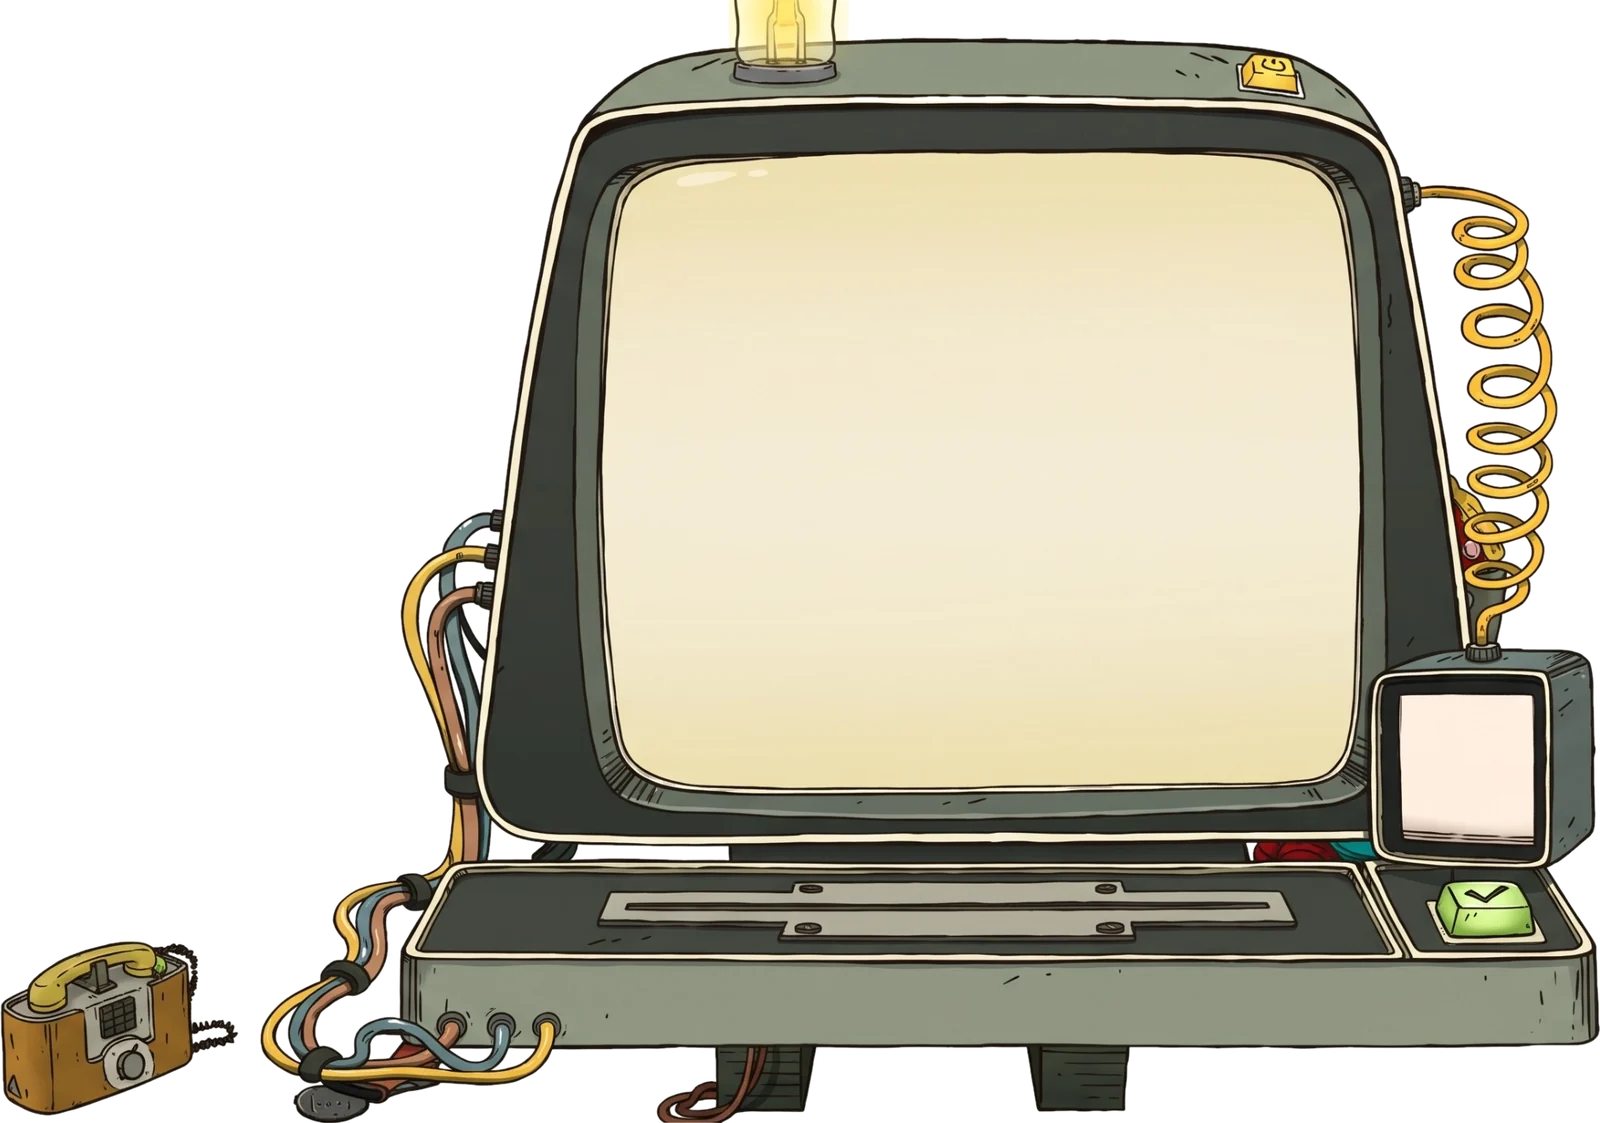
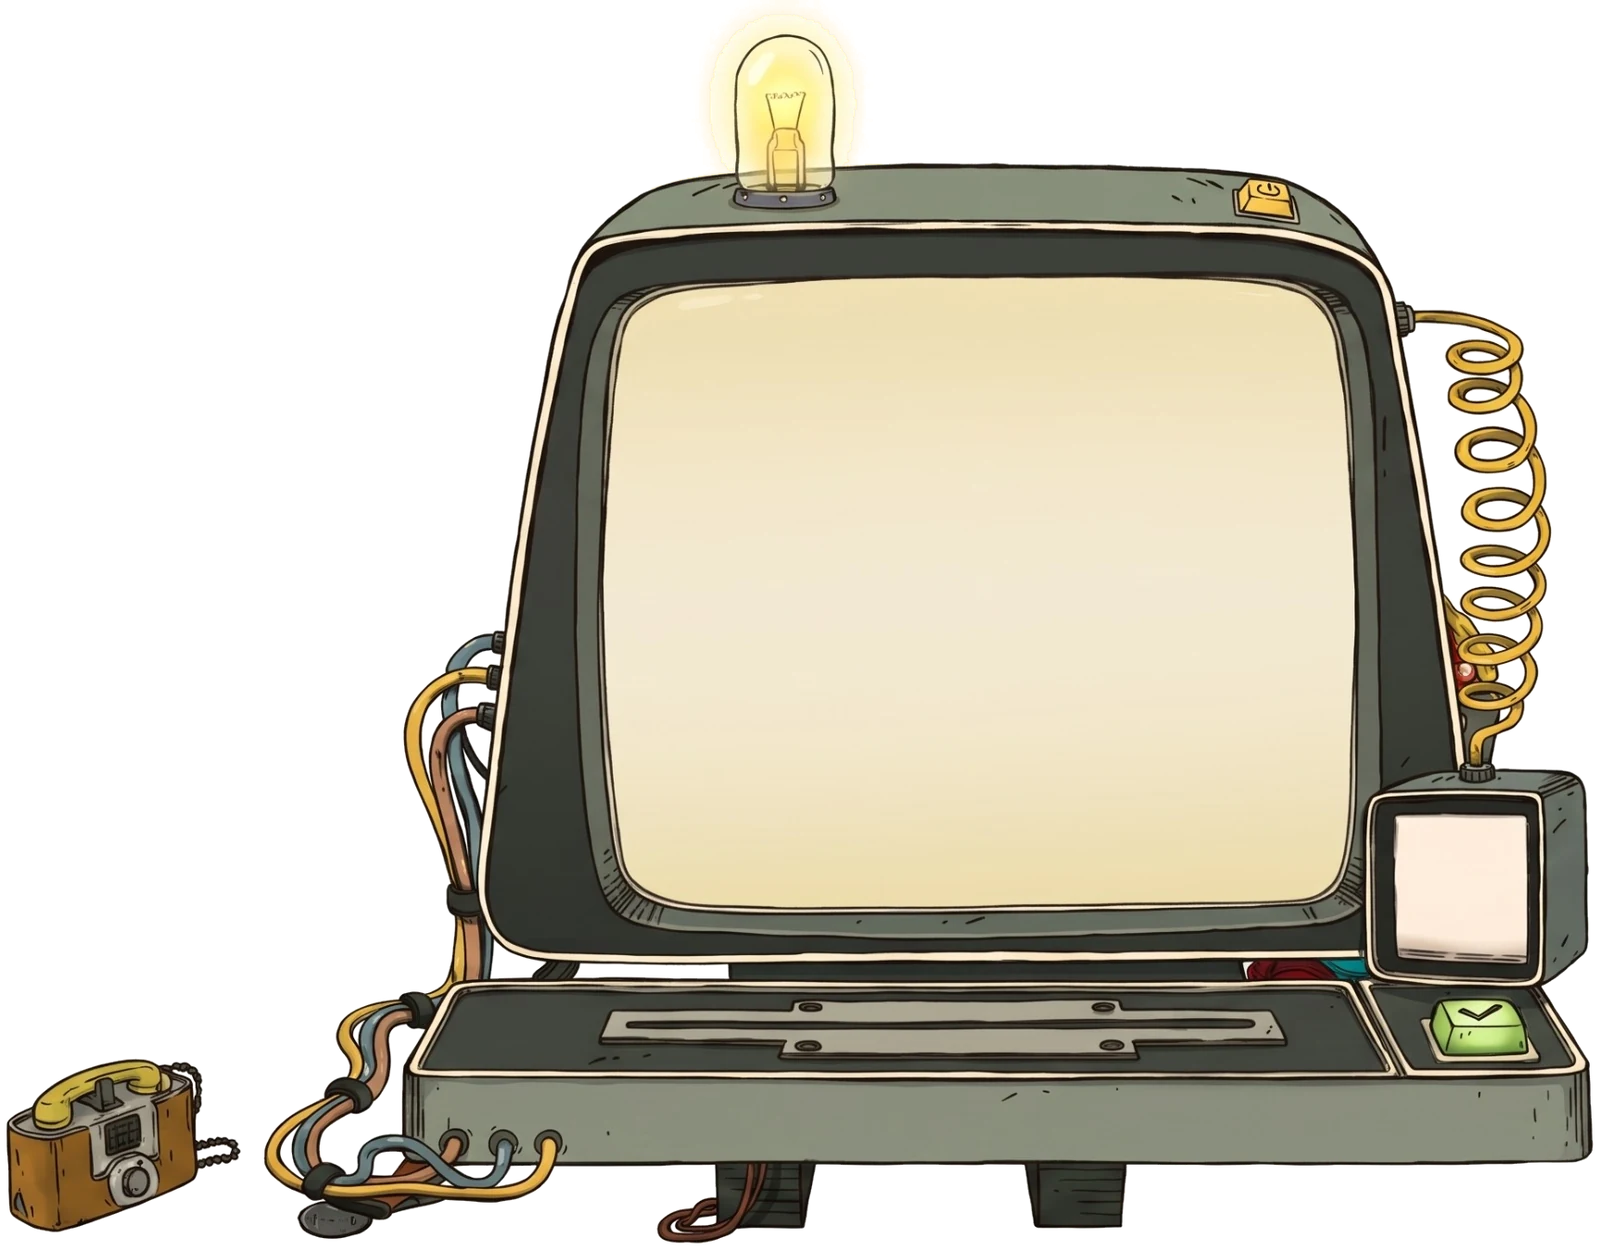
v1.3: computadora nueva para el reporte de la noche y el final (lamparita entera), con las posiciones recalculadas

Changed region(s): [[0.0, 0.0, 1.0, 1.0]]

diff --git a/src/styles.css b/src/styles.css
@@ -445,7 +445,7 @@ p { margin: 0 0 0.8em; line-height: 1.5; }
 /* ---------- Consola (reporte nocturno y final) ---------- */
 .console-overlay { position: absolute; inset: 0; display: grid; place-items: end center; padding: 10px; pointer-events: none; z-index: 25; }
 .console-overlay.end-console { place-items: center; position: relative; inset: auto; width: 100%; }
-.console-wrap { position: relative; width: min(1300px, 98vw, calc(calc(var(--vh) * 86) * 1.425)); aspect-ratio: 1600 / 1123; container-type: inline-size; pointer-events: auto; filter: drop-shadow(0 30px 50px rgba(0, 0, 0, 0.65)); }
+.console-wrap { position: relative; width: min(1300px, 98vw, calc(calc(var(--vh) * 82) * 1.28)); aspect-ratio: 1600 / 1250; container-type: inline-size; pointer-events: auto; filter: drop-shadow(0 30px 50px rgba(0, 0, 0, 0.65)); }
 .console-img { position: absolute; inset: 0; width: 100%; height: 100%; user-select: none; }
 .bulb { position: absolute; border-radius: 50%; pointer-events: none; }
 .bulb.alarm { background: radial-gradient(circle, rgba(255, 60, 60, 0.95), rgba(255, 60, 60, 0) 70%); animation: blink 0.4s infinite alternate; }
@@ -467,7 +467,7 @@ p { margin: 0 0 0.8em; line-height: 1.5; }
 .mini-stars { display: grid; font-size: max(2.3cqw, 11.5px); line-height: 1; }
 .mini-stars span { color: rgba(255, 191, 92, 0.2); } .mini-stars span.on { color: #ffd166; text-shadow: 0 0 1cqw #ffd166; }
 .console-ok { position: absolute; border-radius: 22%; animation: okpulse 1s infinite alternate; }
-.console-ok-label { position: absolute; right: 12.5%; top: 79%; font: 700 max(2.07cqw, 11.5px) 'Fredoka', sans-serif; color: #fff; background: #2f9e44; padding: 0.5cqw 1.6cqw; border-radius: 999px; box-shadow: 0 0.6cqw 1.6cqw rgba(0, 0, 0, 0.4); }
+.console-ok-label { position: absolute; right: 12.5%; top: 80.6%; font: 700 max(2.07cqw, 11.5px) 'Fredoka', sans-serif; color: #fff; background: #2f9e44; padding: 0.5cqw 1.6cqw; border-radius: 999px; box-shadow: 0 0.6cqw 1.6cqw rgba(0, 0, 0, 0.4); }
 .console-ok-label:hover { background: #37b04f; }
 .console-phone { position: absolute; border-radius: 12%; }
 .console-phone:hover { background: radial-gradient(circle, rgba(255, 209, 102, 0.35), transparent 70%); }
@@ -782,7 +782,7 @@ p { margin: 0 0 0.8em; line-height: 1.5; }
   .sol-badge { width: 3rem; height: 3rem; }
   .sol-screen.phase-report .hud { display: none; }
   .terminal-wrap { width: min(99vw, calc(calc(var(--vh) * 97) * 1.432)); }
-  .console-wrap { width: min(99vw, calc(calc(var(--vh) * 97) * 1.425)); }
+  .console-wrap { width: min(99vw, calc(calc(var(--vh) * 97) * 1.28)); }
 
   /* Preguntas y pausa: todo entra en la pantalla */
   .quiz-card { padding: 10px 16px; max-height: calc(var(--vh) * 96); overflow-y: auto; }

diff --git a/src/ui/Console.jsx b/src/ui/Console.jsx
@@ -3,11 +3,12 @@
 import consoleImg from '../assets/ui/console.webp'
 import { ScrollArea } from './common'
 
-const MAIN = { left: '38.6%', top: '15%', width: '45.4%', height: '54.5%' }
-const MINI = { left: '87.52%', top: '61.9%', width: '8.3%', height: '12.46%' }
-const OK = { left: '89.48%', top: '78.29%', width: '6.39%', height: '5.18%' }
-const PHONE = { left: '0%', top: '83.7%', width: '12.2%', height: '16.1%' }
-const BULB = { left: '44.5%', top: '0%', width: '9%', height: '9%' }
+// Posiciones sobre console.webp (1600 × 1250, armada con tools/armar_consola.py)
+const MAIN = { left: '38.66%', top: '23.48%', width: '45.04%', height: '48.56%' }
+const MINI = { left: '87.19%', top: '65.28%', width: '8.25%', height: '11.03%' }
+const OK = { left: '89.35%', top: '79.85%', width: '6%', height: '4.5%' }
+const PHONE = { left: '0%', top: '84%', width: '15%', height: '15.5%' }
+const BULB = { left: '42.9%', top: '0.5%', width: '13%', height: '16.6%' }
 
 export default function Console({ children, mini, onOk, okLabel, onPhone, phoneLabel, alarm }) {
   return (

diff --git a/tools/armar_consola.py b/tools/armar_consola.py
@@ -1,0 +1,68 @@
+# Arma src/assets/ui/console.webp a partir del dibujo de la computadora sobre fondo blanco:
+# saca el fondo (todo lo claro conectado con los bordes), deja el brillo de la lamparita como halo
+# semitransparente, recorta y lo lleva a 1600 px de ancho.
+# Uso: python3 tools/armar_consola.py dibujo.png src/assets/ui/console.webp
+import sys
+from collections import deque
+import numpy as np
+from PIL import Image, ImageFilter
+
+src, out = sys.argv[1], sys.argv[2]
+im = Image.open(src).convert('RGB')
+a = np.asarray(im).astype(np.int16)
+h, w, _ = a.shape
+mn, mx = a.min(axis=2), a.max(axis=2)
+# "fondo": claro y casi sin color
+bgish = (mn > 222) & (mx - mn < 22)
+# relleno desde los bordes por los píxeles de fondo
+seen = np.zeros((h, w), bool)
+q = deque()
+for x in range(w):
+    for y in (0, h - 1):
+        if bgish[y, x] and not seen[y, x]: seen[y, x] = True; q.append((y, x))
+for y in range(h):
+    for x in (0, w - 1):
+        if bgish[y, x] and not seen[y, x]: seen[y, x] = True; q.append((y, x))
+while q:
+    y, x = q.popleft()
+    for dy, dx in ((1, 0), (-1, 0), (0, 1), (0, -1)):
+        ny, nx = y + dy, x + dx
+        if 0 <= ny < h and 0 <= nx < w and not seen[ny, nx] and bgish[ny, nx]:
+            seen[ny, nx] = True; q.append((ny, nx))
+# huecos encerrados entre cables y el resorte: blancos y sin color, fuera de las dos pantallas
+# (las pantallas son crema o rosadas, nunca tan neutras)
+from scipy import ndimage
+hole = (~seen) & (mn > 232) & (mx - mn < 14)
+lab, n = ndimage.label(hole)
+sizes = ndimage.sum(np.ones_like(lab), lab, range(1, n + 1))
+sx, sy = w / 2560, h / 1428
+screens = [(1075 * sx, 300 * sy, 1890 * sx, 1015 * sy), (1905 * sx, 860 * sy, 2070 * sx, 1040 * sy)]
+for i, sl in enumerate(ndimage.find_objects(lab)):
+    if sizes[i] < 25: continue
+    cy, cx = (sl[0].start + sl[0].stop) / 2, (sl[1].start + sl[1].stop) / 2
+    if any(x0 < cx < x1 and y0 < cy < y1 for x0, y0, x1, y1 in screens): continue
+    seen[sl] |= lab[sl] == i + 1
+alpha = np.where(seen, 0, 255).astype(np.uint8)
+
+# brillo de la lamparita: alrededor de la lamparita, el fondo amarillento queda como halo
+# (más amarillo = más opaco), pintado de amarillo para que no se vea blanquecino sobre fondo oscuro
+rgb = a.copy()
+yy, xx = np.mgrid[0:h, 0:w]
+bulb = (xx > 1120 * sx) & (xx < 1370 * sx) & (yy < 250 * sy)
+yellow = np.clip((a[..., 0] - a[..., 2] - 6).astype(np.float32) / 60, 0, 1)
+halo = seen & bulb
+alpha[halo] = (yellow[halo] * 200).astype(np.uint8)
+rgb[halo] = (255, 214, 110)
+im = Image.fromarray(rgb.astype(np.uint8))
+
+# borde suave: medio píxel de transición
+al = Image.fromarray(alpha).filter(ImageFilter.GaussianBlur(0.6))
+rgba = im.copy(); rgba.putalpha(al)
+bbox = Image.fromarray((np.asarray(al) > 8).astype(np.uint8) * 255).getbbox()
+pad = 6
+bbox = (max(0, bbox[0] - pad), max(0, bbox[1] - pad), min(w, bbox[2] + pad), min(h, bbox[3] + pad))
+rgba = rgba.crop(bbox)
+W = 1600
+rgba = rgba.resize((W, round(rgba.height * W / rgba.width)), Image.LANCZOS)
+rgba.save(out, 'WEBP', quality=88, method=6)
+print('bbox', bbox, 'size', rgba.size)
